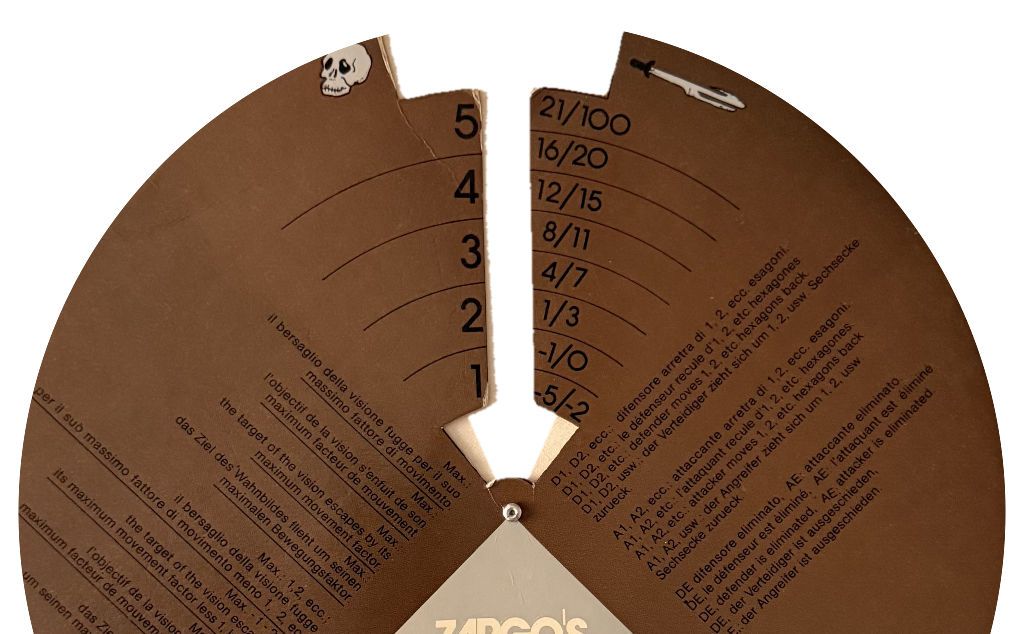
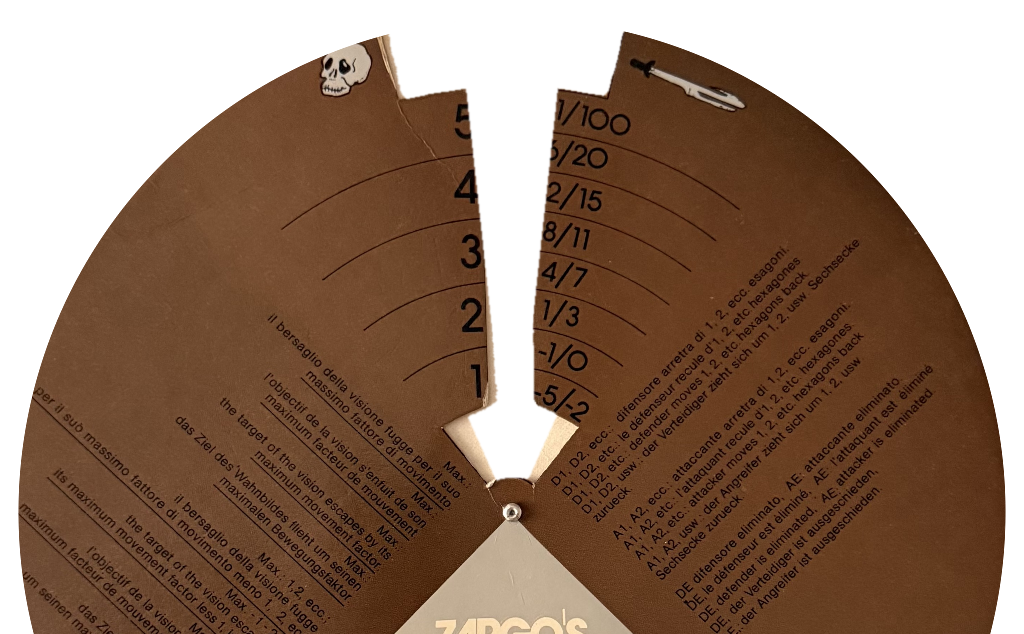
Ruote: torna lo spicchio giallo, risultati centrati nella fessura e fessura allargata perché MAX-n si legga per intero
Claude-Session: https://claude.ai/code/session_01UGffusLquscsgWPmXMcwTi

Changed region(s): [[0.4375, 0.1199, 0.5625, 0.4795]]

diff --git a/tools/genera_ruota.py b/tools/genera_ruota.py
@@ -90,3 +90,30 @@ if __name__ == "__main__":
     disco("IMG_6185.jpg", (1521.0, 1512.0), 1510.0, "ruota_tiri_disco.png")
     coperchio("IMG_6187.jpg", (1520.0, 1507.5), 1.01, 0.0, 1488.0, 45, "ruota_tiri_coperchio.png")
     print("ruota generata")
+
+
+def allarga_finestra(nome, semi=6.2):
+    """Allarga la fessura verticale del cartoncino fino a ±semi gradi, così
+    le scritte lunghe (MAX-2, MAX-3…) si leggono per intero."""
+    im = np.asarray(Image.open(OUT / nome)).copy()
+    h, w = im.shape[:2]
+    yy, xx = np.mgrid[0:h, 0:w].astype(np.float32)
+    dx, dy = xx + 0.5 - LATO / 2, yy + 0.5 - LATO / 2
+    r = np.hypot(dx, dy) / SCALA
+    ang = np.degrees(np.arctan2(dy, dx)) + 90.0
+    aperto = im[..., 3] < 100
+    vicino = np.abs(ang) < 20
+    # raggi in cui la fessura esiste già
+    righe = np.round(r).astype(int)
+    con_fessura = np.zeros(int(r.max()) + 2, bool)
+    con_fessura[np.unique(righe[aperto & vicino])] = True
+    con_fessura = ndimage.binary_erosion(ndimage.binary_closing(con_fessura, iterations=20), iterations=6)
+    nuovo = vicino & (np.abs(ang) < semi) & con_fessura[righe]
+    nuovo = ndimage.gaussian_filter(nuovo.astype(np.float32), 0.8)
+    im[..., 3] = (im[..., 3] * (1.0 - nuovo)).astype(np.uint8)
+    Image.fromarray(im).save(OUT / nome, optimize=True)
+
+
+if __name__ == "__main__":
+    allarga_finestra("ruota_coperchio.png")
+    allarga_finestra("ruota_tiri_coperchio.png")
